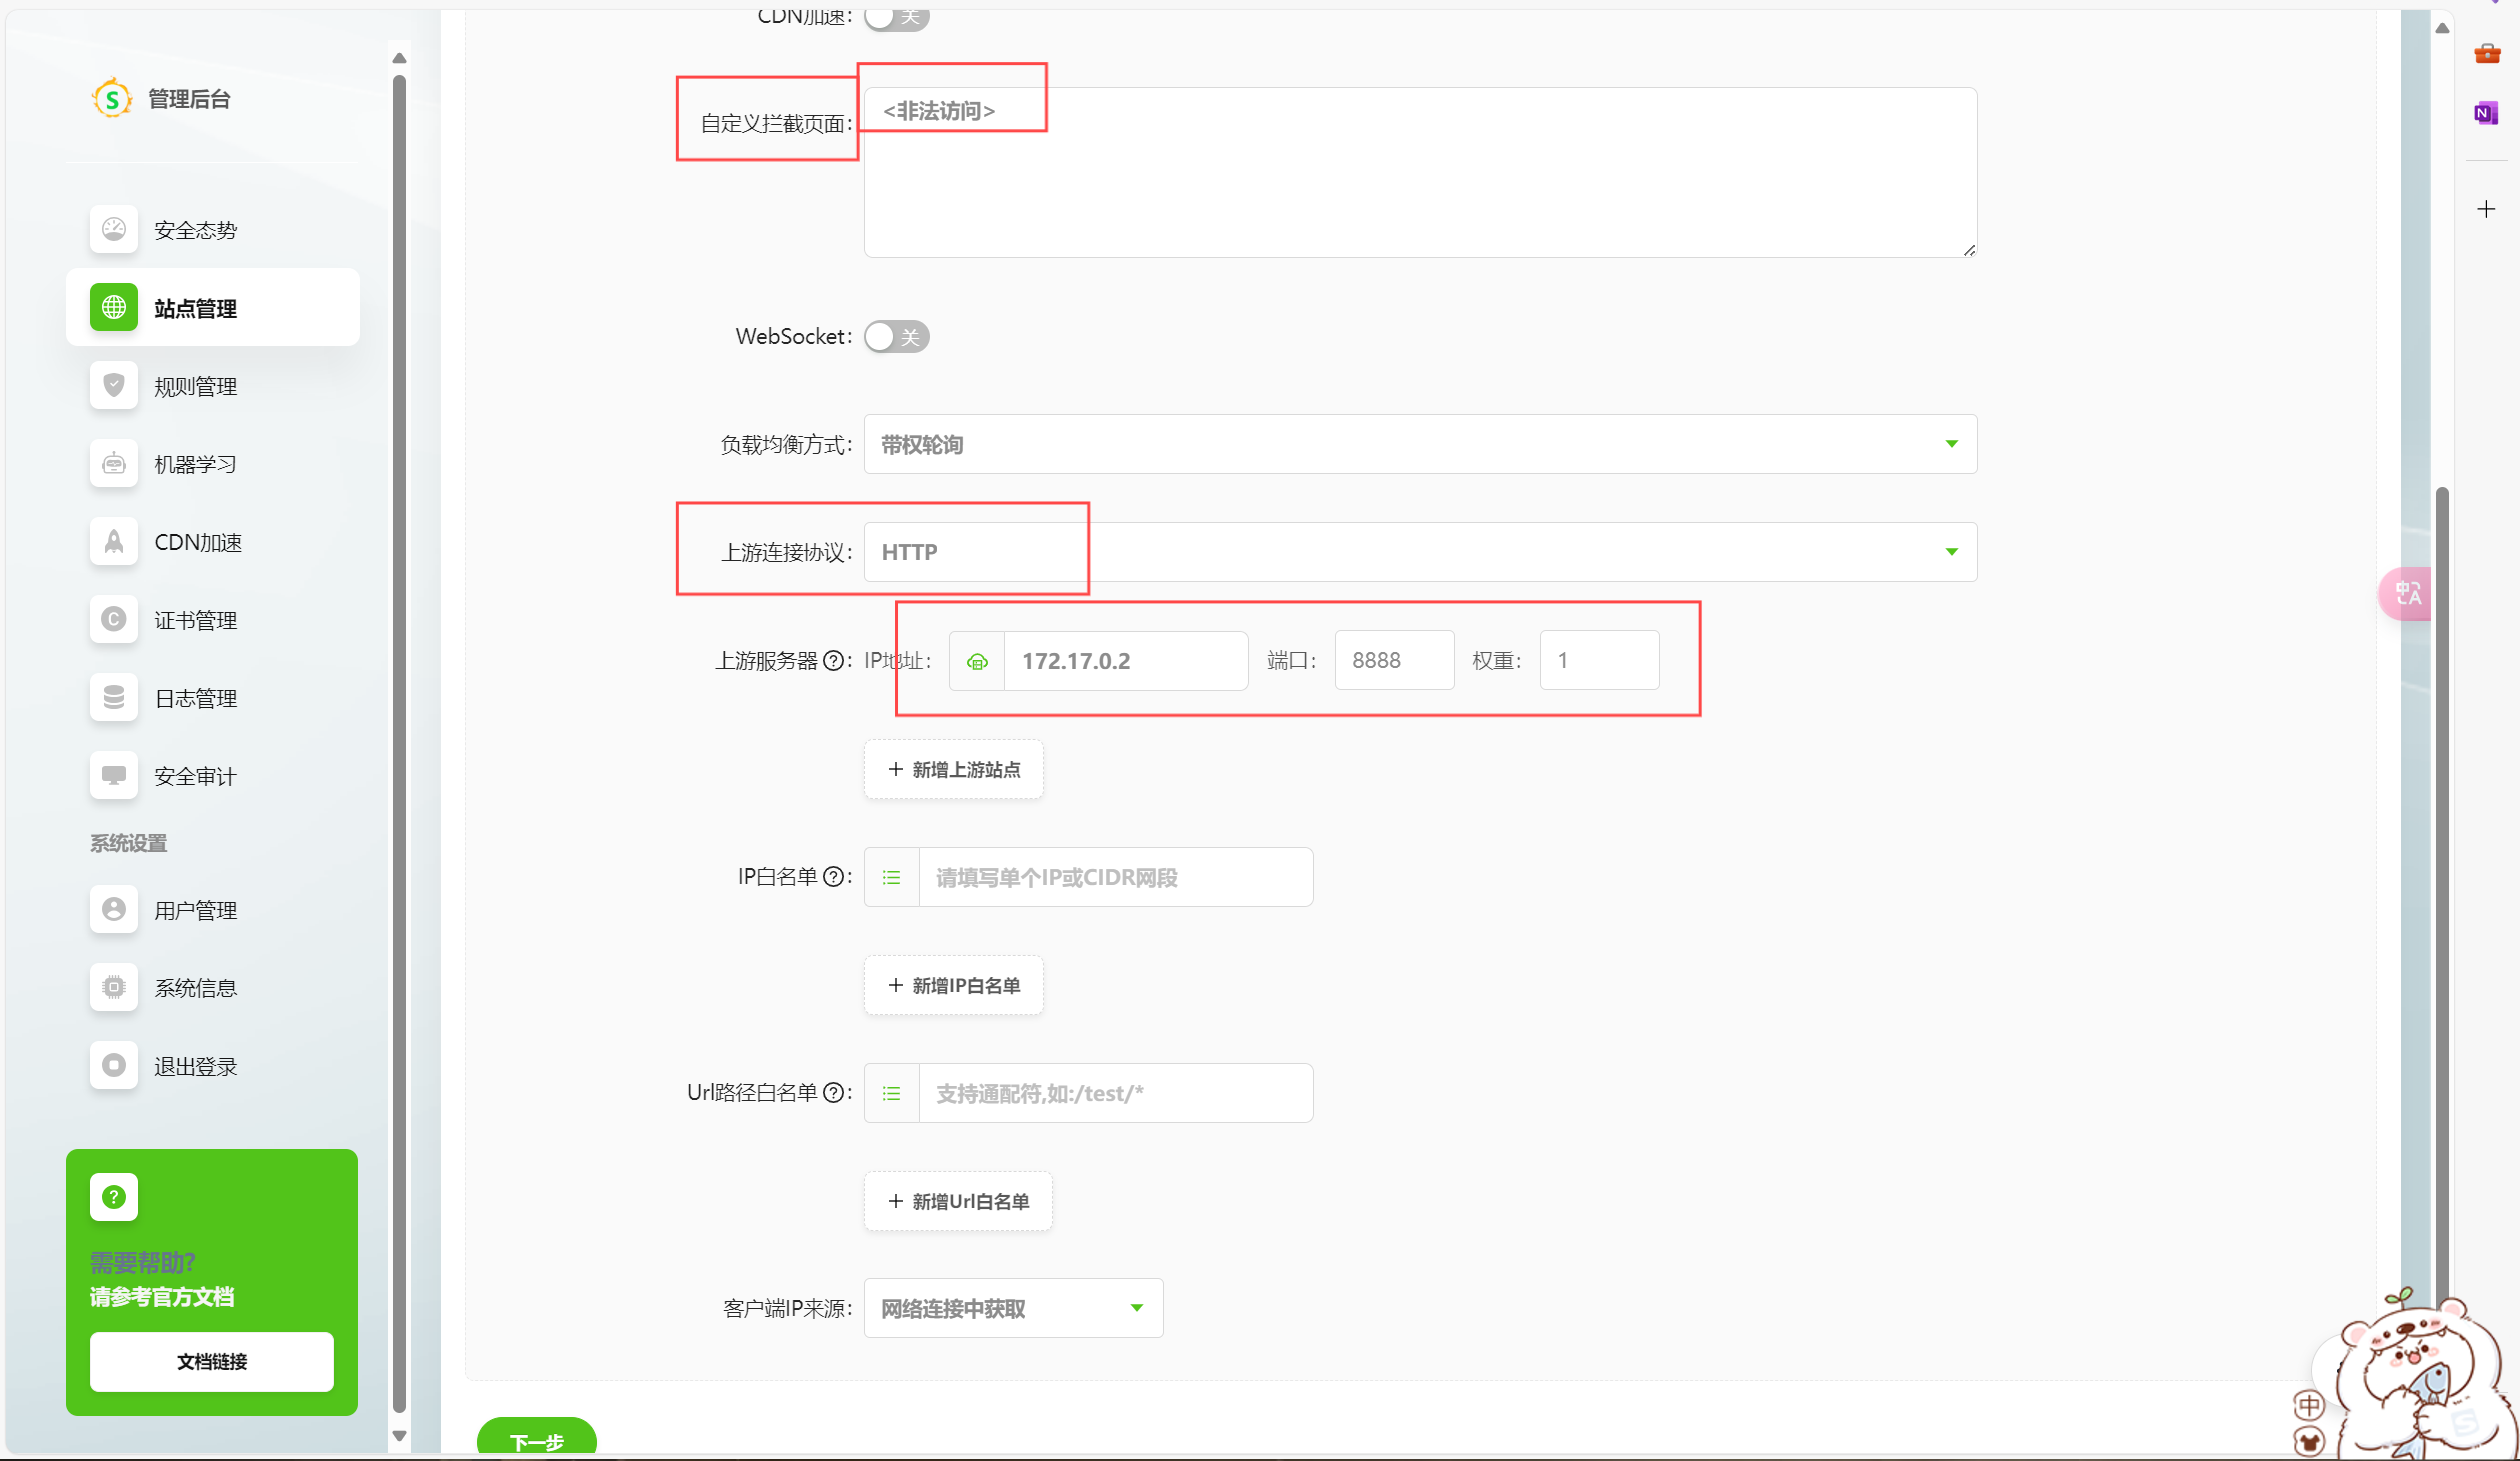
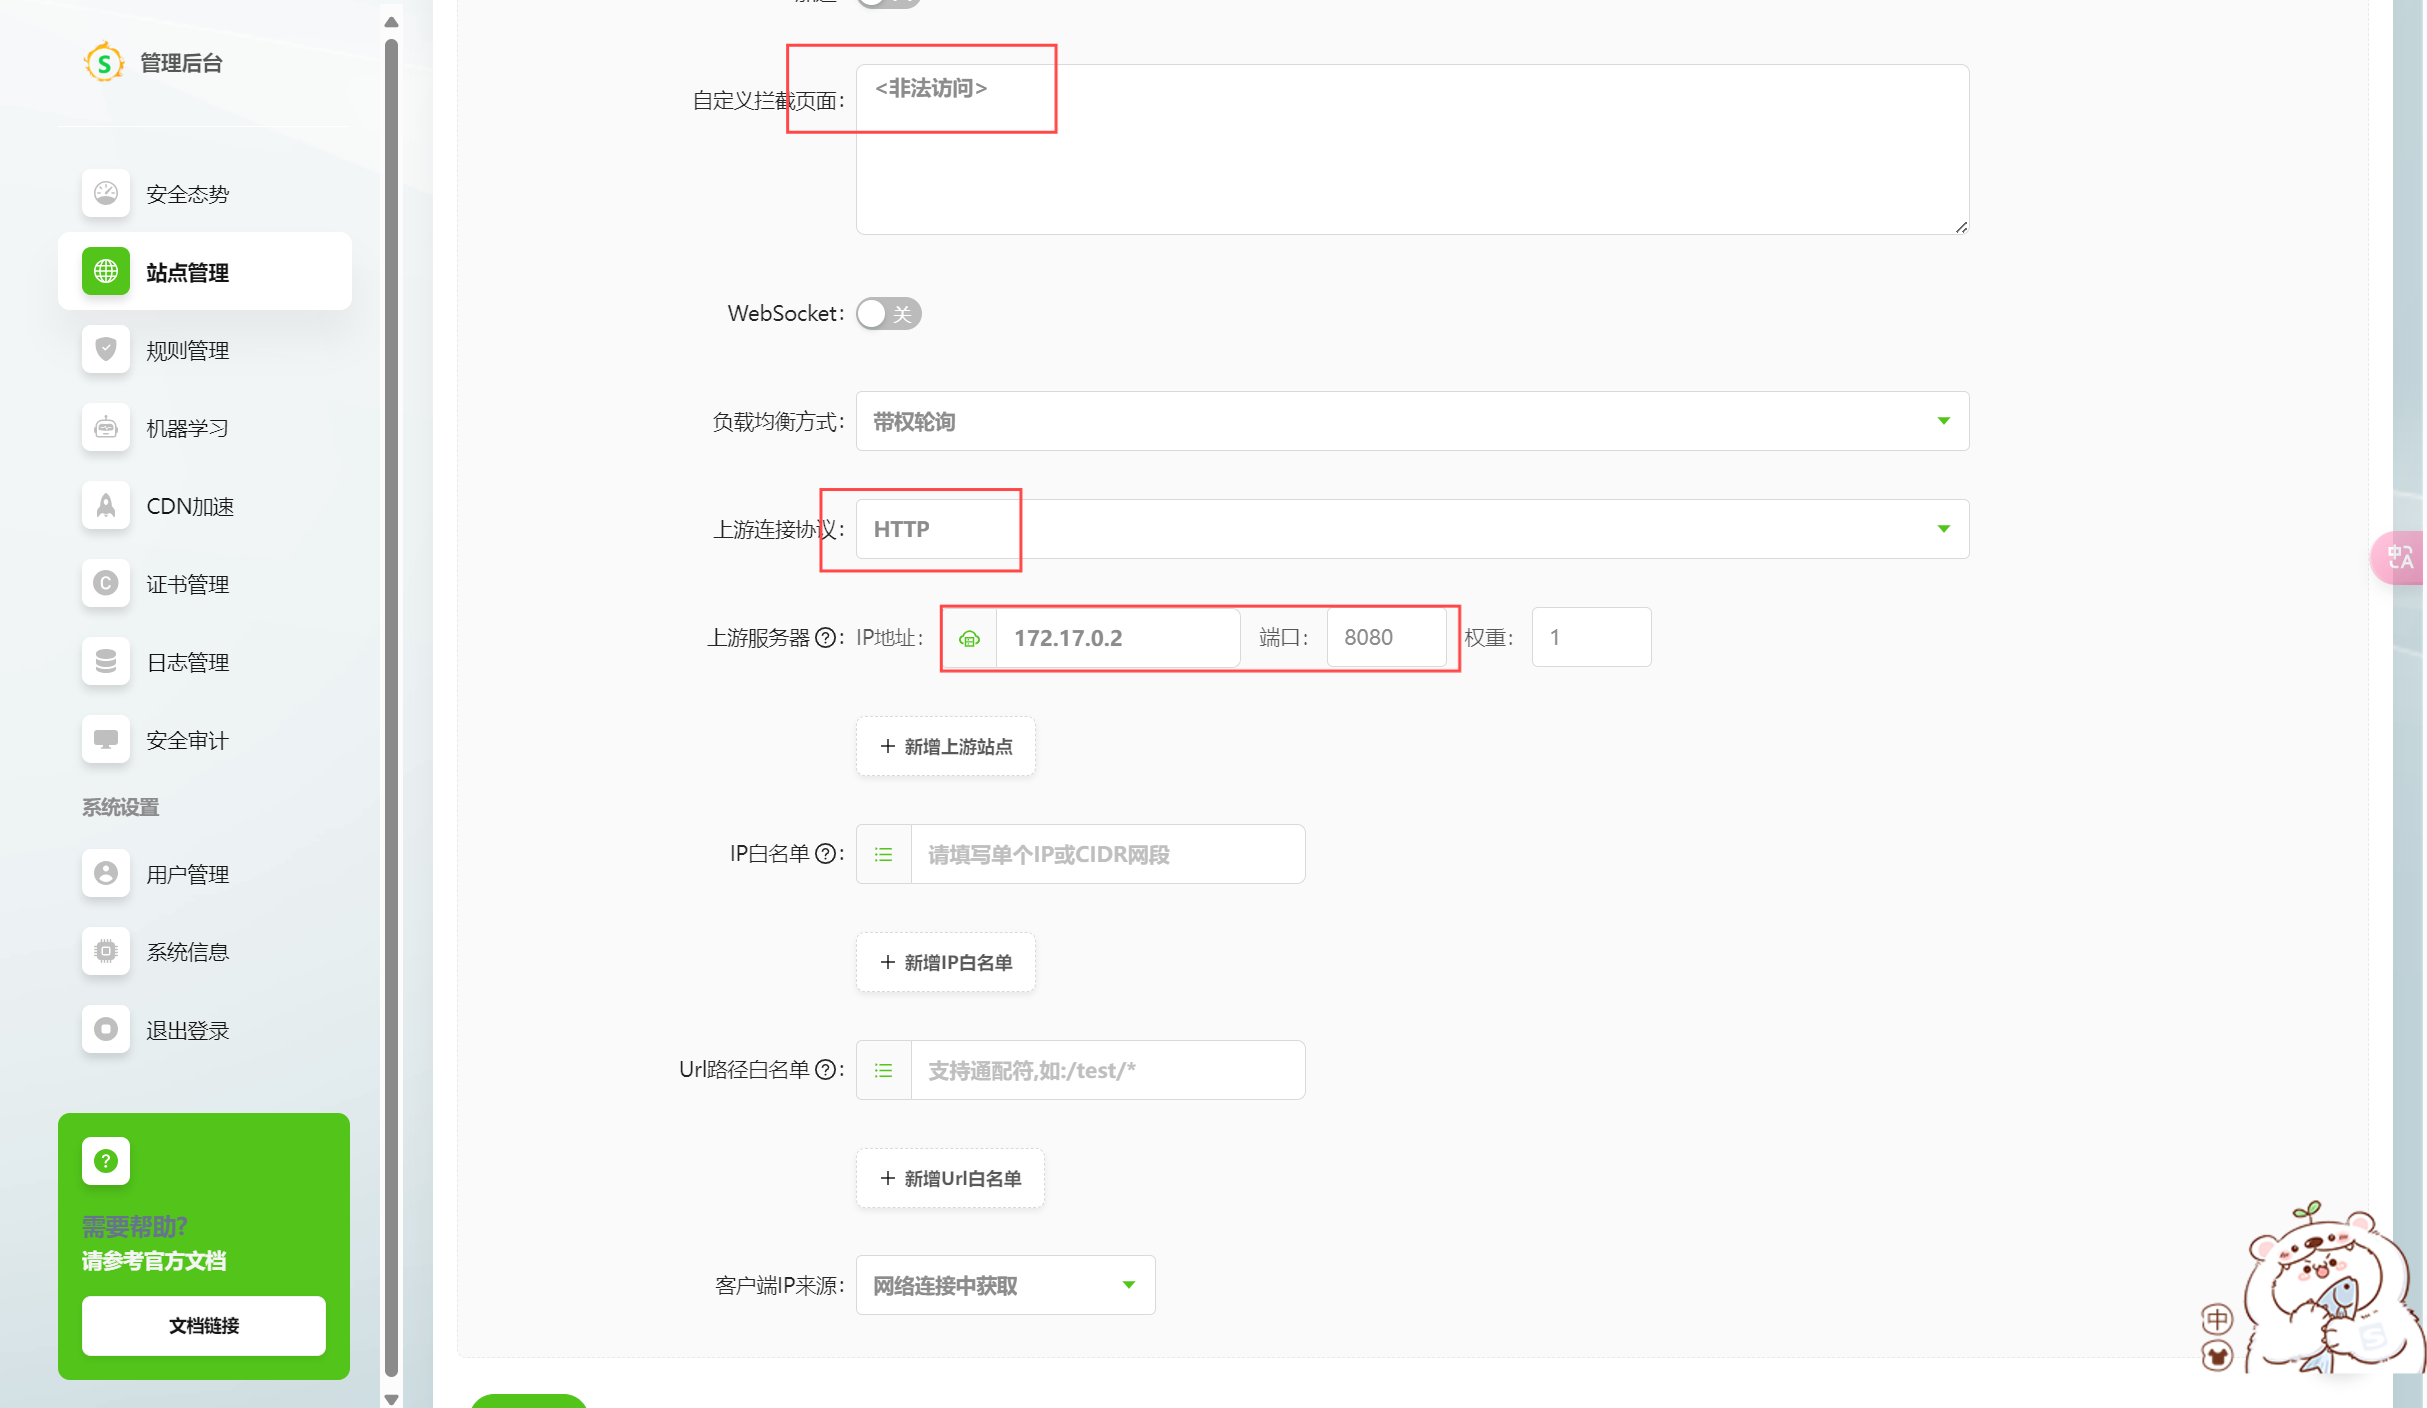
完善报告

diff --git a/DMZ/dmz.md b/DMZ/dmz.md
@@ -152,7 +152,7 @@ ls /tmp    #得到 flag
 对目标网络进行扫描
 
 ```
-db_nmap -p 60990,80,22 192.168.56.105 -A -T4 -n
+db_nmap -p 26106,80,22 192.168.56.105 -A -T4 -n
 ```
 
 ![扫描目标网络](./img/扫描目标网络.png)
@@ -444,7 +444,7 @@ docker exec -it id bash
 
 在容器内编辑```pom.xml```文件，将version改为2.5.33，避免被已知漏洞利用：
 
-* 官方已修复 早期版本的 RCE 漏洞，确保 Apache Struts2 解析 OGNL 时不会触发远程代码执行
+* 官方已修复早期版本的RC 漏洞，确保Apache Struts2解析OGNL时不会触发远程代码执行
 
 * 2.5.33 是 最新的 2.5 分支版本，避免了早期版本的漏洞
 

diff --git a/log4j2完整实验报告/README.md b/log4j2完整实验报告/README.md
@@ -225,7 +225,7 @@
     ```
     <div><img src="img/log4j2ip地址.png" width=60%></div>
 
-    - 添加站点，自定义一个简单的拦截页面，设置上游服务器为 `<容器 log4j2_exp 的内部 IP 地址>:8888` ，勾选中设置的规则。
+    - 添加站点，自定义一个简单的拦截页面，设置上游服务器为 `<容器 log4j2_exp 的内部 IP 地址>:8080` ，勾选中设置的规则。
     <div><img src="img/waf上游服务器设置.png" width=100%></div>
     <div><img src="img/选中设置的规则.png" width=100%></div>
 
